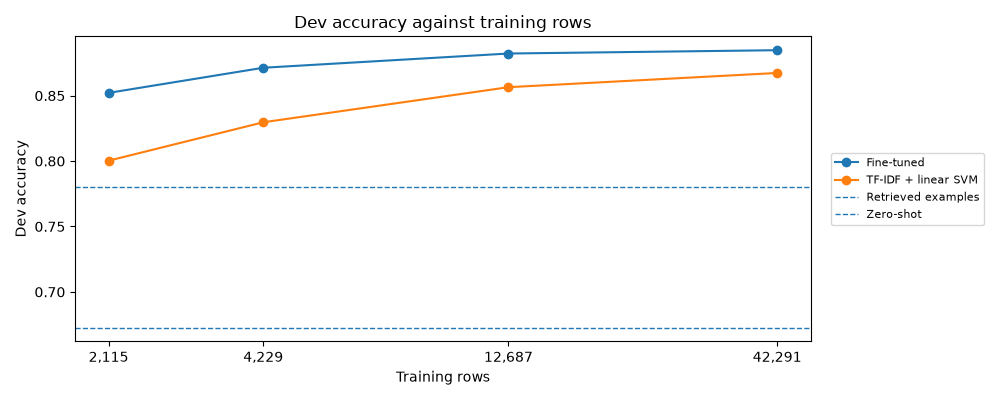
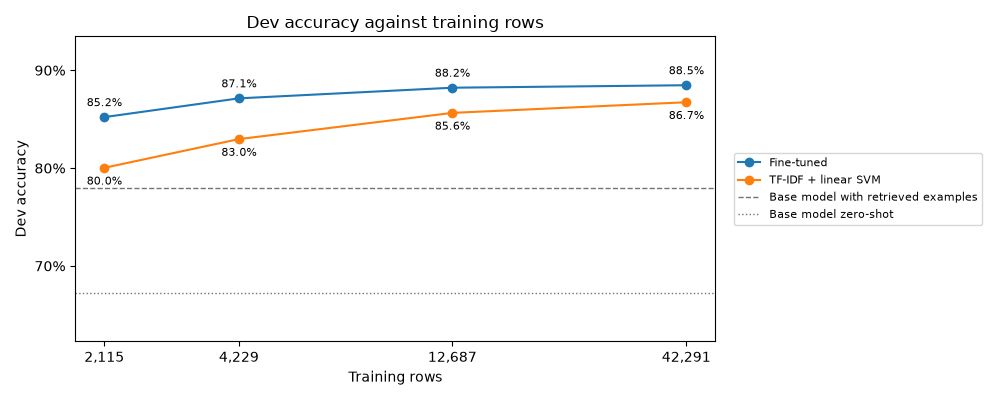
Step 13d: learning curve chart labels

diff --git a/src/cve2cwe/report.py b/src/cve2cwe/report.py
@@ -2214,7 +2214,9 @@ def _block_facts_learning_curve(points: list[dict]) -> str:
 
 
 def _plot_learning_curve(points: list[dict]) -> None:
-    """Draw results/curves/learning_curve.png in the same plain style as loss.png."""
+    """Draw results/curves/learning_curve.png. The y axis is percent, as in the README."""
+    import math
+
     import matplotlib
 
     matplotlib.use("Agg")
@@ -2224,15 +2226,52 @@ def _plot_learning_curve(points: list[dict]) -> None:
     zero = float(_one_result("qwen35_4b_zero_shot", "dev")["metrics"]["accuracy"])
     fig, ax = plt.subplots(figsize=(10, 4))
     xs = [point["rows"] for point in points]
-    ax.plot(xs, [point["ft_acc"] for point in points], marker="o", label="Fine-tuned")
-    ax.plot(
-        xs,
-        [point["tfidf_acc"] for point in points],
-        marker="o",
-        label="TF-IDF + linear SVM",
+    ft = [100.0 * point["ft_acc"] for point in points]
+    tfidf = [100.0 * point["tfidf_acc"] for point in points]
+    ax.plot(xs, ft, marker="o", label="Fine-tuned")
+    ax.plot(xs, tfidf, marker="o", label="TF-IDF + linear SVM")
+    # Same grey, different dashes, so neither line is the fine-tuned blue.
+    grey = "0.45"
+    ax.axhline(
+        100.0 * retrieval,
+        color=grey,
+        linestyle="--",
+        linewidth=1,
+        label="Base model with retrieved examples",
     )
-    ax.axhline(retrieval, linestyle="--", linewidth=1, label="Retrieved examples")
-    ax.axhline(zero, linestyle="--", linewidth=1, label="Zero-shot")
+    ax.axhline(
+        100.0 * zero,
+        color=grey,
+        linestyle=":",
+        linewidth=1,
+        label="Base model zero-shot",
+    )
+    for x, point in zip(xs, points, strict=True):
+        ax.annotate(
+            fmt_pct(point["ft_acc"]),
+            (x, 100.0 * point["ft_acc"]),
+            textcoords="offset points",
+            xytext=(0, 6),
+            ha="center",
+            va="bottom",
+            fontsize=8,
+        )
+        ax.annotate(
+            fmt_pct(point["tfidf_acc"]),
+            (x, 100.0 * point["tfidf_acc"]),
+            textcoords="offset points",
+            xytext=(0, -6),
+            ha="center",
+            va="top",
+            fontsize=8,
+        )
+    bottom = min(100.0 * zero, 100.0 * retrieval, min(ft), min(tfidf))
+    top = max(max(ft), max(tfidf))
+    ax.set_ylim(bottom - 5, top + 5)
+    first = math.ceil(bottom / 10.0) * 10
+    last = math.ceil(top / 10.0) * 10
+    ax.set_yticks(list(range(first, last + 1, 10)))
+    ax.yaxis.set_major_formatter(plt.FuncFormatter(lambda value, _pos: f"{int(value)}%"))
     ax.set_xscale("log")
     ax.xaxis.set_major_locator(plt.FixedLocator(xs))
     ax.xaxis.set_major_formatter(plt.FuncFormatter(lambda value, _pos: f"{int(round(value)):,}"))

diff --git a/docs/DESIGN.md b/docs/DESIGN.md
@@ -155,7 +155,7 @@ Champion: the system other than the candidate with the highest accuracy on the l
 
 ## Ablations
 
-Eight one-seed runs, added after submission. Each changes one thing against the shipped recipe and is scored on dev only. The test set, the gate and the shipped model are unchanged. Differences under about one point are noise.
+Eight one-seed runs, added after submission. Each changes one thing against the shipped recipe and is scored on dev only. The test set, the gate and the shipped model are unchanged. A difference of half a point between two single runs is treated as noise.
 
 - ctrl: nothing. The shipped recipe, rerun in a rebuilt environment.
 - frac05: 5% of the train rows, 2 epochs.
